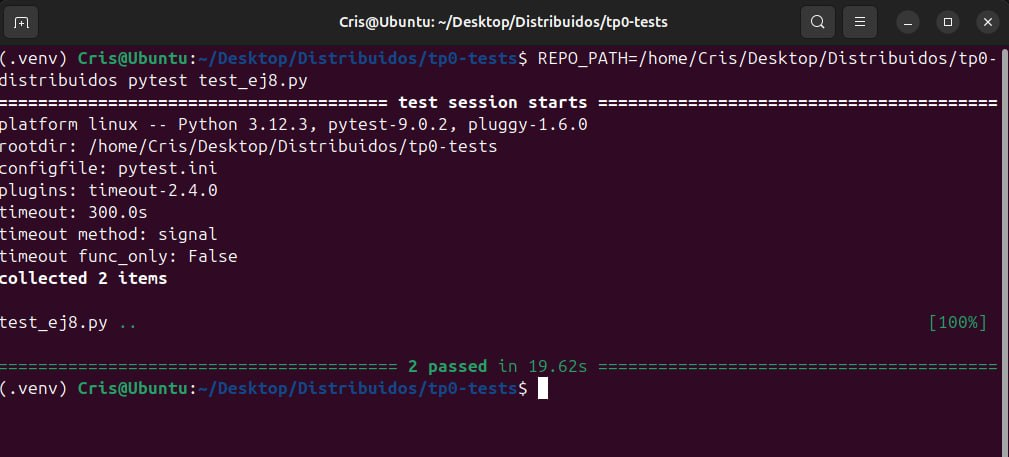
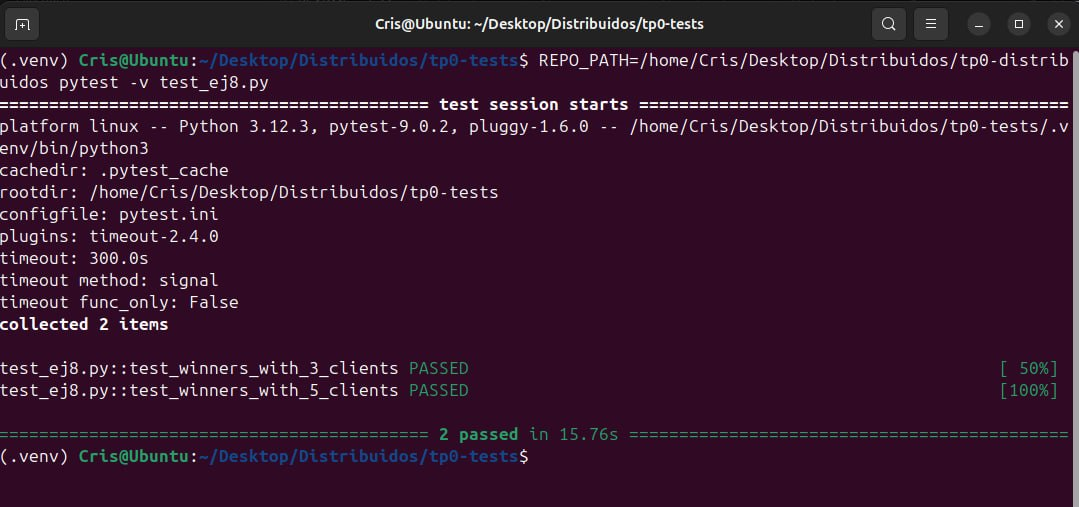
add: add readme with the documentation of the solution implemented

diff --git a/README.md b/README.md
@@ -1,171 +1,129 @@
-# TP0: Docker + Comunicaciones + Concurrencia
+TP0: Docker + Comunicaciones + Concurrencia
 
-En el presente repositorio se provee un esqueleto básico de cliente/servidor, en donde todas las dependencias del mismo se encuentran encapsuladas en containers. Los alumnos deberán resolver una guía de ejercicios incrementales, teniendo en cuenta las condiciones de entrega descritas al final de este enunciado.
-
- El cliente (Golang) y el servidor (Python) fueron desarrollados en diferentes lenguajes simplemente para mostrar cómo dos lenguajes de programación pueden convivir en el mismo proyecto con la ayuda de containers, en este caso utilizando [Docker Compose](https://docs.docker.com/compose/).
-
-## Instrucciones de uso
-El repositorio cuenta con un **Makefile** que incluye distintos comandos en forma de targets. Los targets se ejecutan mediante la invocación de:  **make \<target\>**. Los target imprescindibles para iniciar y detener el sistema son **docker-compose-up** y **docker-compose-down**, siendo los restantes targets de utilidad para el proceso de depuración.
-
-Los targets disponibles son:
-
-| target  | accion  |
-|---|---|
-|  `docker-compose-up`  | Inicializa el ambiente de desarrollo. Construye las imágenes del cliente y el servidor, inicializa los recursos a utilizar (volúmenes, redes, etc) e inicia los propios containers. |
-| `docker-compose-down`  | Ejecuta `docker-compose stop` para detener los containers asociados al compose y luego  `docker-compose down` para destruir todos los recursos asociados al proyecto que fueron inicializados. Se recomienda ejecutar este comando al finalizar cada ejecución para evitar que el disco de la máquina host se llene de versiones de desarrollo y recursos sin liberar. |
-|  `docker-compose-logs` | Permite ver los logs actuales del proyecto. Acompañar con `grep` para lograr ver mensajes de una aplicación específica dentro del compose. |
-| `docker-image`  | Construye las imágenes a ser utilizadas tanto en el servidor como en el cliente. Este target es utilizado por **docker-compose-up**, por lo cual se lo puede utilizar para probar nuevos cambios en las imágenes antes de arrancar el proyecto. |
-| `build` | Compila la aplicación cliente para ejecución en el _host_ en lugar de en Docker. De este modo la compilación es mucho más veloz, pero requiere contar con todo el entorno de Golang y Python instalados en la máquina _host_. |
-
-### Servidor
-
-Se trata de un "echo server", en donde los mensajes recibidos por el cliente se responden inmediatamente y sin alterar. 
-
-Se ejecutan en bucle las siguientes etapas:
-
-1. Servidor acepta una nueva conexión.
-2. Servidor recibe mensaje del cliente y procede a responder el mismo.
-3. Servidor desconecta al cliente.
-4. Servidor retorna al paso 1.
-
-
-### Cliente
- se conecta reiteradas veces al servidor y envía mensajes de la siguiente forma:
- 
-1. Cliente se conecta al servidor.
-2. Cliente genera mensaje incremental.
-3. Cliente envía mensaje al servidor y espera mensaje de respuesta.
-4. Servidor responde al mensaje.
-5. Servidor desconecta al cliente.
-6. Cliente verifica si aún debe enviar un mensaje y si es así, vuelve al paso 2.
-
-### Ejemplo
-
-Al ejecutar el comando `make docker-compose-up`  y luego  `make docker-compose-logs`, se observan los siguientes logs:
-
-```
-client1  | 2024-08-21 22:11:15 INFO     action: config | result: success | client_id: 1 | server_address: server:12345 | loop_amount: 5 | loop_period: 5s | log_level: DEBUG
-client1  | 2024-08-21 22:11:15 INFO     action: receive_message | result: success | client_id: 1 | msg: [CLIENT 1] Message N°1
-server   | 2024-08-21 22:11:14 DEBUG    action: config | result: success | port: 12345 | listen_backlog: 5 | logging_level: DEBUG
-server   | 2024-08-21 22:11:14 INFO     action: accept_connections | result: in_progress
-server   | 2024-08-21 22:11:15 INFO     action: accept_connections | result: success | ip: 172.25.125.3
-server   | 2024-08-21 22:11:15 INFO     action: receive_message | result: success | ip: 172.25.125.3 | msg: [CLIENT 1] Message N°1
-server   | 2024-08-21 22:11:15 INFO     action: accept_connections | result: in_progress
-server   | 2024-08-21 22:11:20 INFO     action: accept_connections | result: success | ip: 172.25.125.3
-server   | 2024-08-21 22:11:20 INFO     action: receive_message | result: success | ip: 172.25.125.3 | msg: [CLIENT 1] Message N°2
-server   | 2024-08-21 22:11:20 INFO     action: accept_connections | result: in_progress
-client1  | 2024-08-21 22:11:20 INFO     action: receive_message | result: success | client_id: 1 | msg: [CLIENT 1] Message N°2
-server   | 2024-08-21 22:11:25 INFO     action: accept_connections | result: success | ip: 172.25.125.3
-server   | 2024-08-21 22:11:25 INFO     action: receive_message | result: success | ip: 172.25.125.3 | msg: [CLIENT 1] Message N°3
-client1  | 2024-08-21 22:11:25 INFO     action: receive_message | result: success | client_id: 1 | msg: [CLIENT 1] Message N°3
-server   | 2024-08-21 22:11:25 INFO     action: accept_connections | result: in_progress
-server   | 2024-08-21 22:11:30 INFO     action: accept_connections | result: success | ip: 172.25.125.3
-server   | 2024-08-21 22:11:30 INFO     action: receive_message | result: success | ip: 172.25.125.3 | msg: [CLIENT 1] Message N°4
-server   | 2024-08-21 22:11:30 INFO     action: accept_connections | result: in_progress
-client1  | 2024-08-21 22:11:30 INFO     action: receive_message | result: success | client_id: 1 | msg: [CLIENT 1] Message N°4
-server   | 2024-08-21 22:11:35 INFO     action: accept_connections | result: success | ip: 172.25.125.3
-server   | 2024-08-21 22:11:35 INFO     action: receive_message | result: success | ip: 172.25.125.3 | msg: [CLIENT 1] Message N°5
-client1  | 2024-08-21 22:11:35 INFO     action: receive_message | result: success | client_id: 1 | msg: [CLIENT 1] Message N°5
-server   | 2024-08-21 22:11:35 INFO     action: accept_connections | result: in_progress
-client1  | 2024-08-21 22:11:40 INFO     action: loop_finished | result: success | client_id: 1
-client1 exited with code 0
-```
-
+Cristian Martin Lin - 107825
 
 ## Parte 1: Introducción a Docker
-En esta primera parte del trabajo práctico se plantean una serie de ejercicios que sirven para introducir las herramientas básicas de Docker que se utilizarán a lo largo de la materia. El entendimiento de las mismas será crucial para el desarrollo de los próximos TPs.
 
 ### Ejercicio N°1:
-Definir un script de bash `generar-compose.sh` que permita crear una definición de Docker Compose con una cantidad configurable de clientes.  El nombre de los containers deberá seguir el formato propuesto: client1, client2, client3, etc. 
+Se implementó el script `generar-compose.sh` en la raíz del proyecto para generar un archivo Docker Compose con una cantidad configurable de clientes.
 
-El script deberá ubicarse en la raíz del proyecto y recibirá por parámetro el nombre del archivo de salida y la cantidad de clientes esperados:
+**Ejecución:**
+```bash
+./generar-compose.sh <arhcivo_salida> N
 
-`./generar-compose.sh docker-compose-dev.yaml 5`
-
-Considerar que en el contenido del script pueden invocar un subscript de Go o Python:
-
-```
-#!/bin/bash
-echo "Nombre del archivo de salida: $1"
-echo "Cantidad de clientes: $2"
-python3 mi-generador.py $1 $2
+# Ejemplo
+./generar-compose.sh docker-compose-dev.yaml 5
 ```
 
-En el archivo de Docker Compose de salida se pueden definir volúmenes, variables de entorno y redes con libertad, pero recordar actualizar este script cuando se modifiquen tales definiciones en los sucesivos ejercicios.
+Luego, se puede levantar el entorno con:
+```bash
+make docker-compose-up
+```
 
 ### Ejercicio N°2:
-Modificar el cliente y el servidor para lograr que realizar cambios en el archivo de configuración no requiera reconstruír las imágenes de Docker para que los mismos sean efectivos. La configuración a través del archivo correspondiente (`config.ini` y `config.yaml`, dependiendo de la aplicación) debe ser inyectada en el container y persistida por fuera de la imagen (hint: `docker volumes`).
+Para evitar tener que reconstruir las imágenes al modificar la configuración, se inyectaron los archivos de config como volúmenes dentro de los containers:
 
+- Servidor: se monta `./server/config.ini` en `/config.ini`
+- Cliente(s): se monta `./client/config.yaml` en `/config.yaml`
+
+De esta forma, cualquier cambio en los archivos `config.ini` / `config.yaml` impacta directamente al ejecutar el contenedor, ya que los archivos quedan persistidos por fuera de la imagen. Se levanta de la misma manera que el ejercicio 1.
 
 ### Ejercicio N°3:
-Crear un script de bash `validar-echo-server.sh` que permita verificar el correcto funcionamiento del servidor utilizando el comando `netcat` para interactuar con el mismo. Dado que el servidor es un echo server, se debe enviar un mensaje al servidor y esperar recibir el mismo mensaje enviado.
+Se implementó el script `validar-echo-server.sh` para verificar el correcto funcionamiento del servidor (echo server) usando `netcat`, sin instalarlo en la máquina host y sin exponer puertos.
 
-En caso de que la validación sea exitosa imprimir: `action: test_echo_server | result: success`, de lo contrario imprimir:`action: test_echo_server | result: fail`.
+**Detalle de la solución:**
+- El script primero verifica que el container `server` esté corriendo.
+- Obtiene dinámicamente la red Docker a la que está conectado el servidor (vía `docker inspect`).
+- Genera un mensaje único con timestamp.
+- Levanta un contenedor efímero `alpine` conectado a esa misma red, instala `netcat` dentro del contenedor y envía el mensaje al servidor.
+- Si la respuesta coincide exactamente con el mensaje enviado imprime:
+  - `action: test_echo_server | result: success`
+  - en caso contrario: `action: test_echo_server | result: fail`
 
-El script deberá ubicarse en la raíz del proyecto. Netcat no debe ser instalado en la máquina _host_ y no se pueden exponer puertos del servidor para realizar la comunicación (hint: `docker network`). `
 
+**Ejecución:**
+1. Levantar el entorno:
+```bash
+./generar-compose.sh docker-compose-dev.yaml N
+
+make docker-compose-up
+```
+
+2. Ejecutar el validador:
+```bash
+./validar-echo-server.sh
+```
 
 ### Ejercicio N°4:
-Modificar servidor y cliente para que ambos sistemas terminen de forma _graceful_ al recibir la signal SIGTERM. Terminar la aplicación de forma _graceful_ implica que todos los _file descriptors_ (entre los que se encuentran archivos, sockets, threads y procesos) deben cerrarse correctamente antes que el thread de la aplicación principal muera. Loguear mensajes en el cierre de cada recurso (hint: Verificar que hace el flag `-t` utilizado en el comando `docker compose down`).
+Se agregó manejo de la señal SIGTERM tanto en servidor como en cliente para lograr un cierre graceful, liberando correctamente los recursos (sockets) antes de terminar el proceso.
+
+- **Cliente (Go):** al recibir SIGTERM se cancela la ejecución, se corta el loop y se cierra el socket.
+- **Servidor (Python):** al recibir SIGTERM se llama a `server.stop()` para cerrar el socket de escucha y terminar el loop de `accept()`.
+
+**Cómo probar el shutdown graceful:**
+Con el entorno levantado, puede enviarse SIGTERM usando:
+```bash
+docker compose -f docker-compose-dev.yaml stop -t <segundos>
+```
 
 ## Parte 2: Repaso de Comunicaciones
 
-Las secciones de repaso del trabajo práctico plantean un caso de uso denominado **Lotería Nacional**. Para la resolución de las mismas deberá utilizarse como base el código fuente provisto en la primera parte, con las modificaciones agregadas en el ejercicio 4.
-
 ### Ejercicio N°5:
-Modificar la lógica de negocio tanto de los clientes como del servidor para nuestro nuevo caso de uso.
+Se modificó el cliente y el servidor para enviar y almacenar apuestas.
 
-#### Cliente
-Emulará a una _agencia de quiniela_ que participa del proyecto. Existen 5 agencias. Deberán recibir como variables de entorno los campos que representan la apuesta de una persona: nombre, apellido, DNI, nacimiento, numero apostado (en adelante 'número'). Ej.: `NOMBRE=Santiago Lionel`, `APELLIDO=Lorca`, `DOCUMENTO=30904465`, `NACIMIENTO=1999-03-17` y `NUMERO=7574` respectivamente.
+- **Cliente (Go):** toma la apuesta desde variables de entorno (`NOMBRE`, `APELLIDO`, `DOCUMENTO`, `NACIMIENTO`, `NUMERO` + `CLI_ID` como id de agencia), la envía al servidor y espera un ACK. Si el ACK indica éxito loguea:  
+  `action: apuesta_enviada | result: success | dni: ${DNI} | numero: ${NUMERO}`
 
-Los campos deben enviarse al servidor para dejar registro de la apuesta. Al recibir la confirmación del servidor se debe imprimir por log: `action: apuesta_enviada | result: success | dni: ${DNI} | numero: ${NUMERO}`.
+- **Servidor (Python):** recibe la apuesta, la almacena usando `store_bets(...)` (provista por la cátedra) y responde con ACK. Si persiste correctamente loguea:  
+  `action: apuesta_almacenada | result: success | dni: ${DNI} | numero: ${NUMERO}`
 
-
-
-#### Servidor
-Emulará a la _central de Lotería Nacional_. Deberá recibir los campos de la cada apuesta desde los clientes y almacenar la información mediante la función `store_bet(...)` para control futuro de ganadores. La función `store_bet(...)` es provista por la cátedra y no podrá ser modificada por el alumno.
-Al persistir se debe imprimir por log: `action: apuesta_almacenada | result: success | dni: ${DNI} | numero: ${NUMERO}`.
-
-#### Comunicación:
-Se deberá implementar un módulo de comunicación entre el cliente y el servidor donde se maneje el envío y la recepción de los paquetes, el cual se espera que contemple:
-* Definición de un protocolo para el envío de los mensajes.
-* Serialización de los datos.
-* Correcta separación de responsabilidades entre modelo de dominio y capa de comunicación.
-* Correcto empleo de sockets, incluyendo manejo de errores y evitando los fenómenos conocidos como [_short read y short write_](https://cs61.seas.harvard.edu/site/2018/FileDescriptors/).
-
+**Protocolo / Comunicación:**
+- Se implementó un framing: `u32` big-endian con el largo del payload + `payload`.
+- `payload`:
+  - `msg_type` (1 byte)
+  - campos en orden fijo (strings con largo `u16` + bytes UTF-8, y `number` como `u32` BE)
+- La respuesta del servidor es un ACK (`msg_type` + status OK/ERROR).  
+Esto evita *short read/write* leyendo/escribiendo exactamente la cantidad de bytes indicada.
 
 ### Ejercicio N°6:
-Modificar los clientes para que envíen varias apuestas a la vez (modalidad conocida como procesamiento por _chunks_ o _batchs_). 
-Los _batchs_ permiten que el cliente registre varias apuestas en una misma consulta, acortando tiempos de transmisión y procesamiento.
+Los clientes envían apuestas en batches. Cada cliente lee sus apuestas desde `.data/agency-{N}.csv`, inyectado al contenedor por volumen, y las envía al servidor en chunks de tamaño configurable por `batch.maxAmount` en `client/config.yaml` (limitando el tamaño de los paquetes).
 
-La información de cada agencia será simulada por la ingesta de su archivo numerado correspondiente, provisto por la cátedra dentro de `.data/datasets.zip`.
-Los archivos deberán ser inyectados en los containers correspondientes y persistido por fuera de la imagen (hint: `docker volumes`), manteniendo la convencion de que el cliente N utilizara el archivo de apuestas `.data/agency-{N}.csv` .
+- **Cliente:** lee el CSV, lo divide en batches y envía un mensaje por batch.
+- **Servidor:** procesa todas las apuestas del batch; si todas se persisten con `store_bets(...)` responde OK y loguea  
+  `action: apuesta_recibida | result: success | cantidad: ${CANTIDAD}`  
+  si falla alguna, responde ERROR y loguea el mismo `action` con `result: fail`.
 
-En el servidor, si todas las apuestas del *batch* fueron procesadas correctamente, imprimir por log: `action: apuesta_recibida | result: success | cantidad: ${CANTIDAD_DE_APUESTAS}`. En caso de detectar un error con alguna de las apuestas, debe responder con un código de error a elección e imprimir: `action: apuesta_recibida | result: fail | cantidad: ${CANTIDAD_DE_APUESTAS}`.
-
-La cantidad máxima de apuestas dentro de cada _batch_ debe ser configurable desde config.yaml. Respetar la clave `batch: maxAmount`, pero modificar el valor por defecto de modo tal que los paquetes no excedan los 8kB. 
-
-Por su parte, el servidor deberá responder con éxito solamente si todas las apuestas del _batch_ fueron procesadas correctamente.
+**Protocolo:**
+Se mantiene el framing del Ej. 5 (`u32` BE + payload) y se agrega `MSG_BATCH`, que incluye `cantidad (u16)` + apuestas en orden fijo.
 
 ### Ejercicio N°7:
+Al finalizar el envío de apuestas, cada cliente notifica al servidor con `FIN` y luego consulta los ganadores de su agencia.
 
-Modificar los clientes para que notifiquen al servidor al finalizar con el envío de todas las apuestas y así proceder con el sorteo.
-Inmediatamente después de la notificacion, los clientes consultarán la lista de ganadores del sorteo correspondientes a su agencia.
-Una vez el cliente obtenga los resultados, deberá imprimir por log: `action: consulta_ganadores | result: success | cant_ganadores: ${CANT}`.
+- **Cliente:** envía `MSG_FIN` (incluye `agency`) y luego consulta con `MSG_GET_WINNERS`. Al recibir la respuesta imprime:  
+  `action: consulta_ganadores | result: success | cant_ganadores: ${CANT}`
 
-El servidor deberá esperar la notificación de las 5 agencias para considerar que se realizó el sorteo e imprimir por log: `action: sorteo | result: success`.
-Luego de este evento, podrá verificar cada apuesta con las funciones `load_bets(...)` y `has_won(...)` y retornar los DNI de los ganadores de la agencia en cuestión. Antes del sorteo no se podrán responder consultas por la lista de ganadores con información parcial.
+- **Servidor:** acumula las notificaciones `FIN` de las agencias. Cuando recibe `FIN` de todas las agencias participantes realiza el sorteo (usando `load_bets(...)` + `has_won(...)`) e imprime:  
+  `action: sorteo | result: success`  
+  Luego responde a cada consulta sólo con los DNIs ganadores de esa agencia (sin broadcast).
 
-Las funciones `load_bets(...)` y `has_won(...)` son provistas por la cátedra y no podrán ser modificadas por el alumno.
-
-No es correcto realizar un broadcast de todos los ganadores hacia todas las agencias, se espera que se informen los DNIs ganadores que correspondan a cada una de ellas.
+**Protocolo:**
+Se mantiene el framing (`u32` BE + payload) y se agregan:
+- `MSG_FIN` (cliente → servidor): fin de envío de una agencia.
+- `MSG_GET_WINNERS` (cliente → servidor): consulta ganadores de una agencia.
+- `MSG_WINNERS` (servidor → cliente): lista de DNIs ganadores filtrada por agencia.
 
 ## Parte 3: Repaso de Concurrencia
-En este ejercicio es importante considerar los mecanismos de sincronización a utilizar para el correcto funcionamiento de la persistencia.
 
 ### Ejercicio N°8:
+Se modificó el servidor para aceptar conexiones y procesar mensajes en paralelo usando *multithreading* (1 thread por conexión).
 
-Modificar el servidor para que permita aceptar conexiones y procesar mensajes en paralelo. En caso de que el alumno implemente el servidor en Python utilizando _multithreading_,  deberán tenerse en cuenta las [limitaciones propias del lenguaje](https://wiki.python.org/moin/GlobalInterpreterLock).
+- En el `accept()` el servidor crea un `threading.Thread` por cliente para atenderlo sin bloquear al resto.
+- Para evitar condiciones de carrera se usan locks:
+  - un lock de estado para coordinar `FIN`, sorteo y consultas pendientes (`_state_lock`)
+  - un lock de storage para serializar `store_bets(...)` / `load_bets(...)` cuando hay varios threads
+
+**Resultado de tests provista por la cátedra:**
+![Resultado de tests - Ejercicio 8](images/screenshot_test_ej8.jpg)
 
 ## Condiciones de Entrega
 Se espera que los alumnos realicen un _fork_ del presente repositorio para el desarrollo de los ejercicios y que aprovechen el esqueleto provisto tanto (o tan poco) como consideren necesario.
